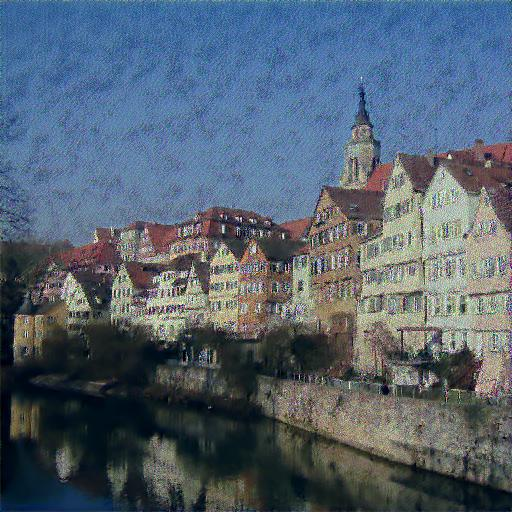
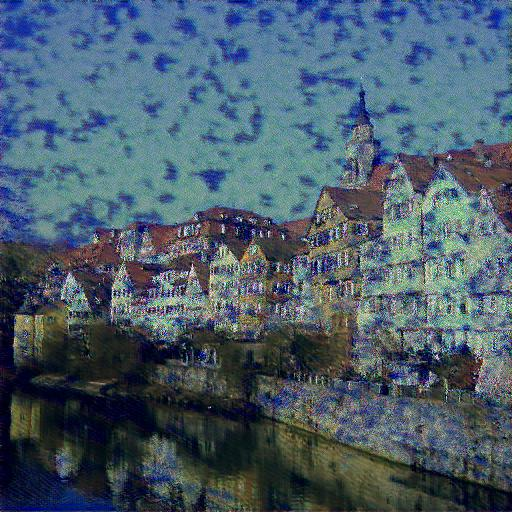
test

diff --git a/stylenet/stylenet.py b/stylenet/stylenet.py
@@ -19,8 +19,8 @@ from shutil import rmtree
 # Model Settings
 IMAGE_DIM = (512, 512)
 INPUT_SHAPE = (None, IMAGE_DIM[0], IMAGE_DIM[1], 3)
-CONTENT_WEIGHT = 0.0025
-STYLE_WEIGHT = 5.0
+CONTENT_WEIGHT = 1
+STYLE_WEIGHT = 1e+4
 TOTAL_VARIATION_WEIGHT = 0
 
 CONTENT_LAYER = 'block2_conv2'
